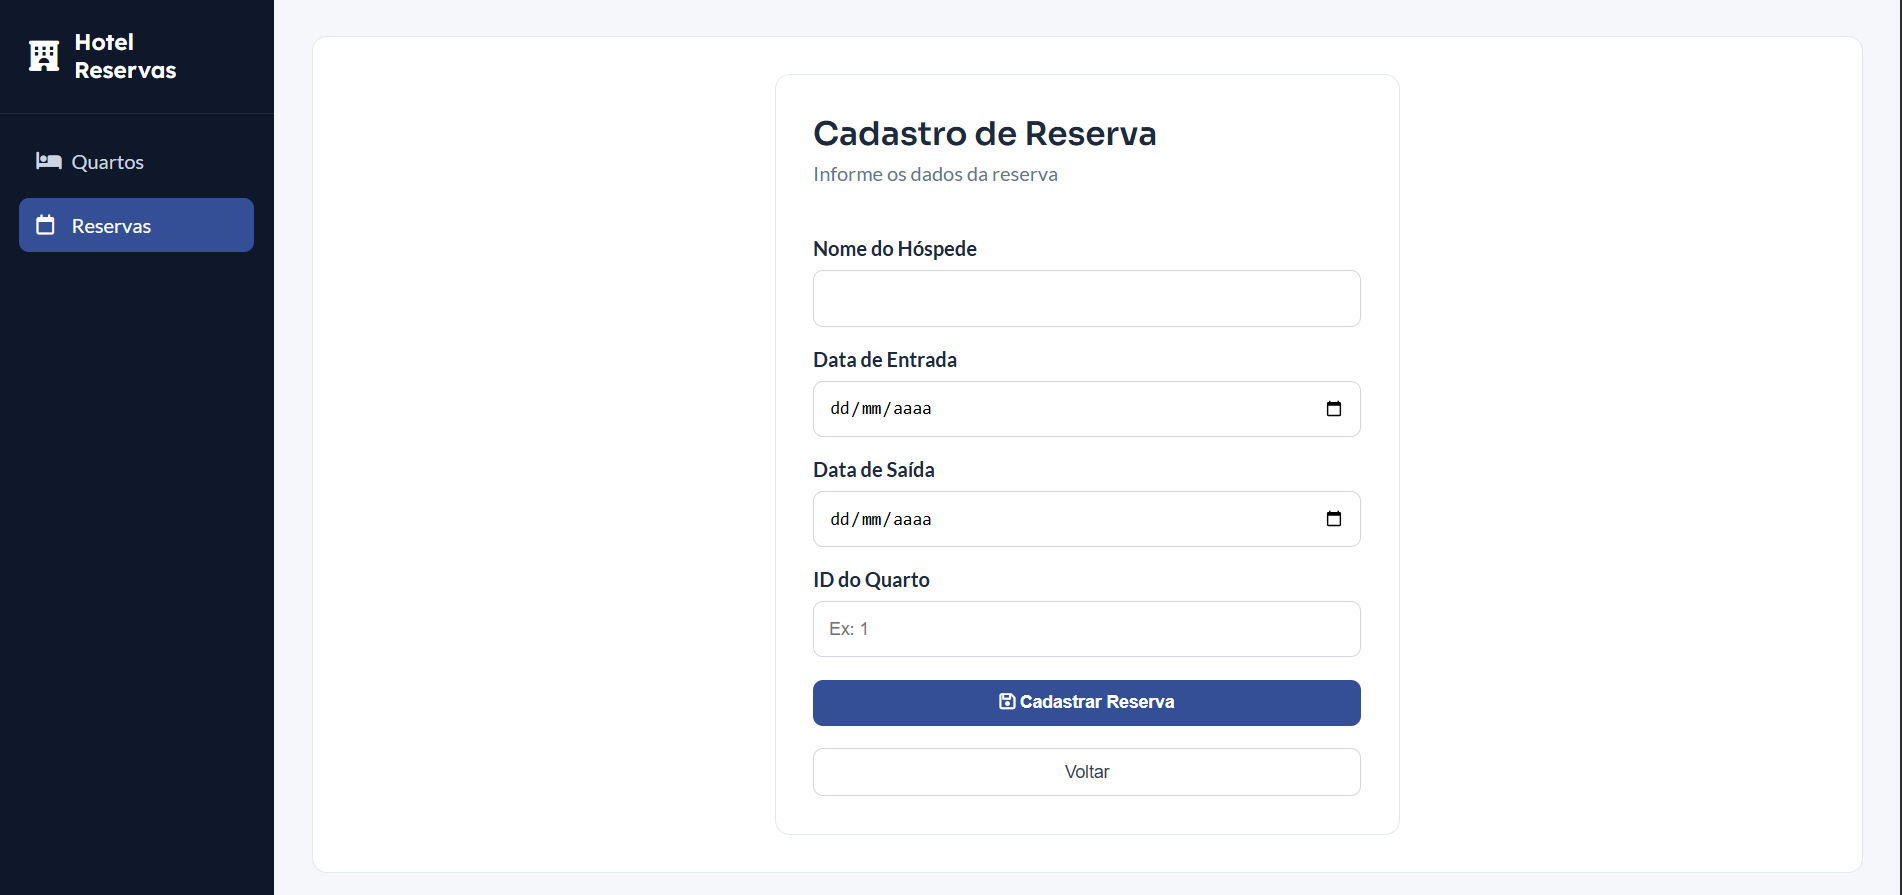
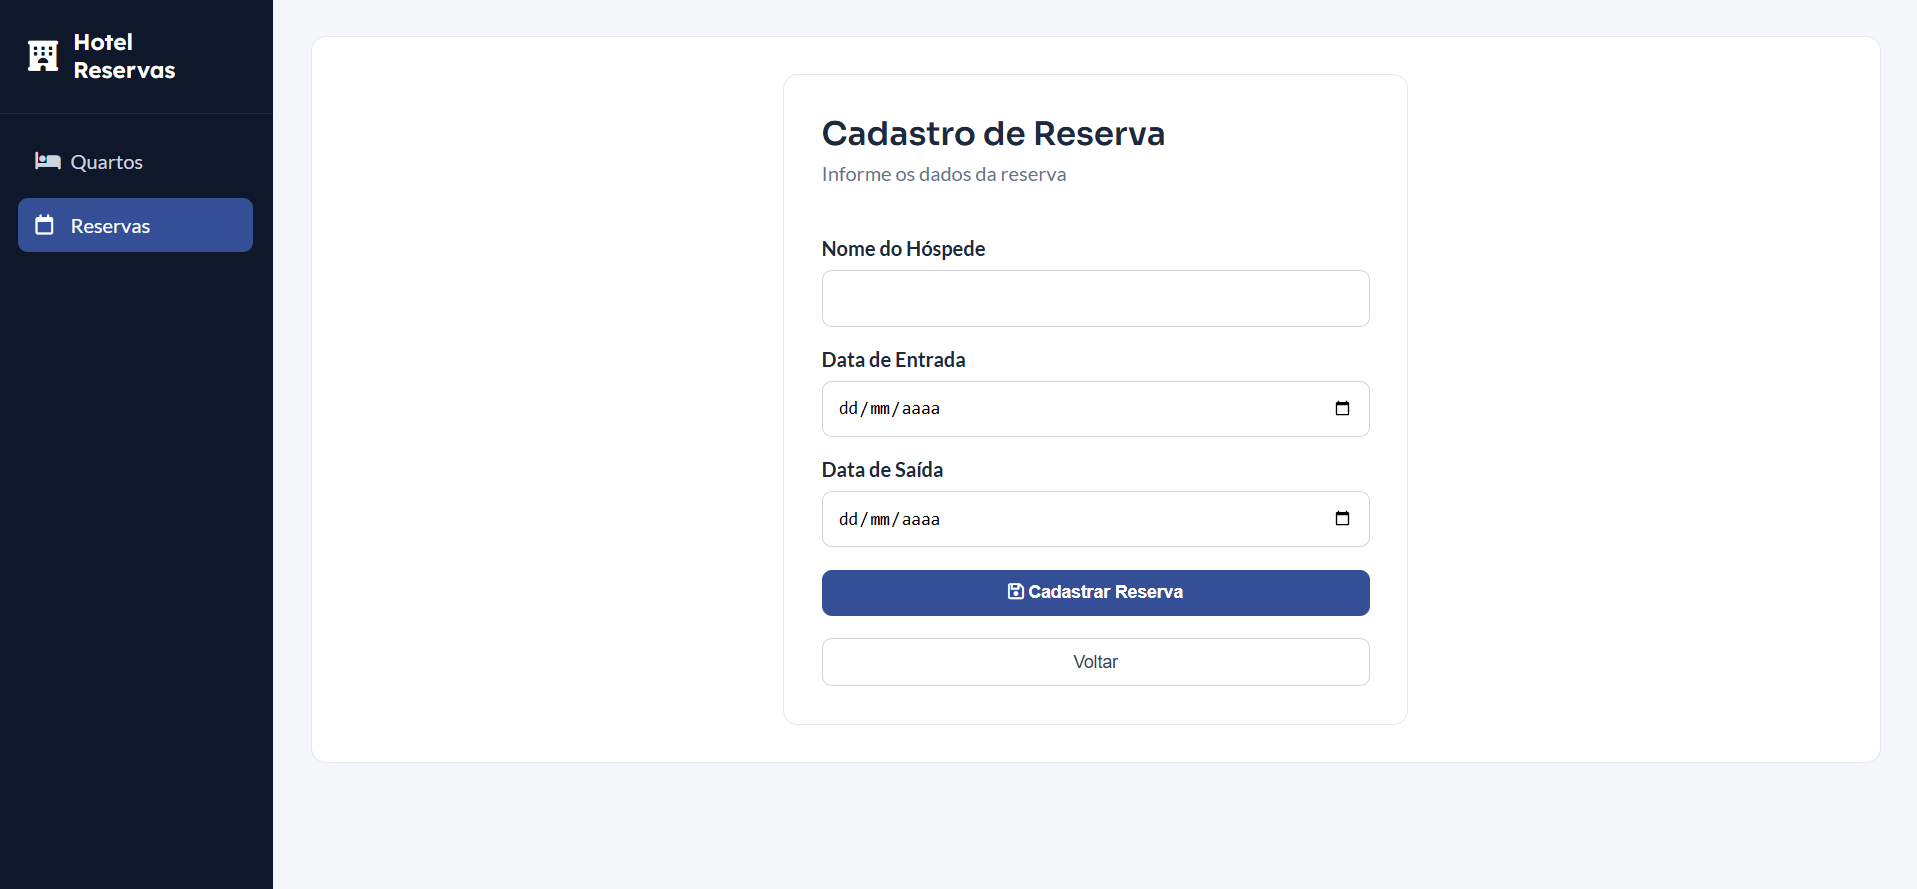
hotel

diff --git a/web/cadastro-reserva.html b/web/cadastro-reserva.html
@@ -66,10 +66,6 @@
                     <input type="date" id="saida" required>
 
 
-                    <label for="quarto_id">ID do Quarto</label>
-                    <input type="number" id="quarto_id" placeholder="Ex: 1" required>
-
-
                     <button type="submit" class="btn-azul btn-form">
 
                         <i class="fa-regular fa-floppy-disk"></i>